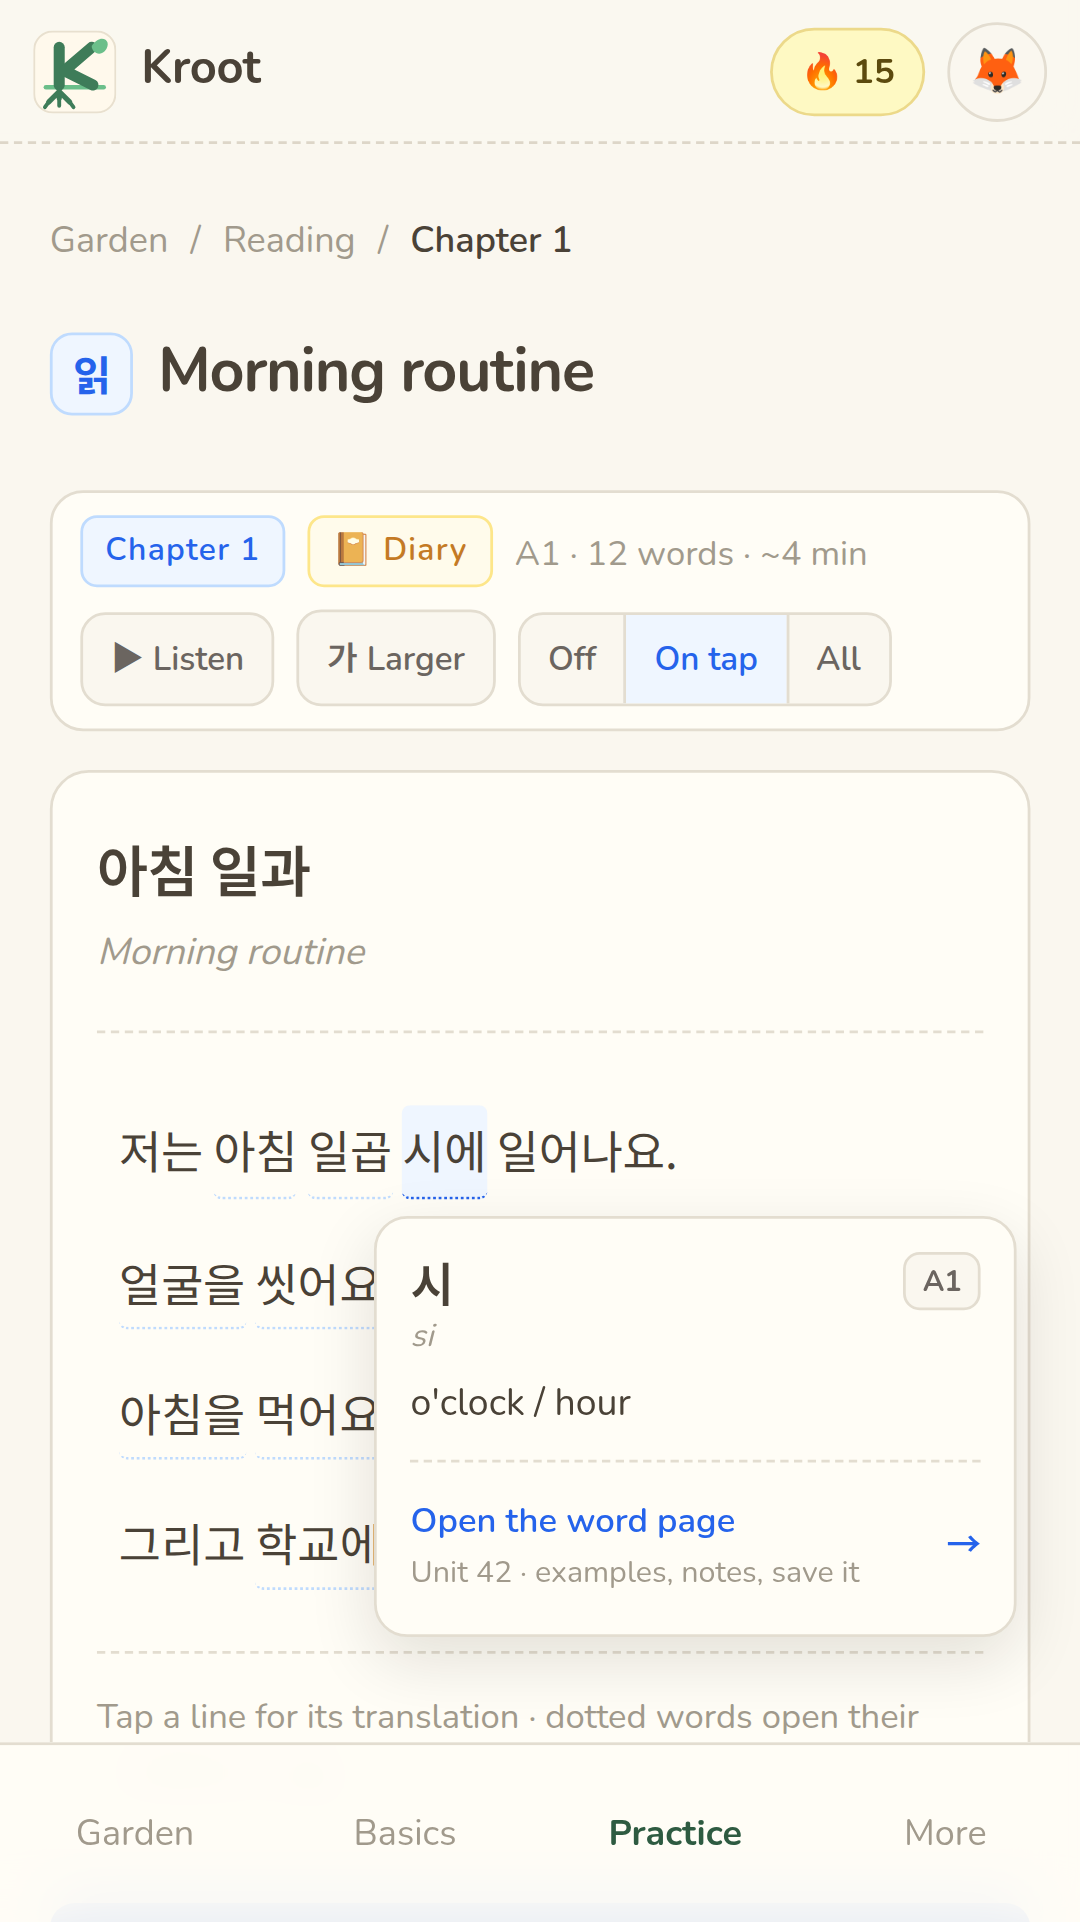
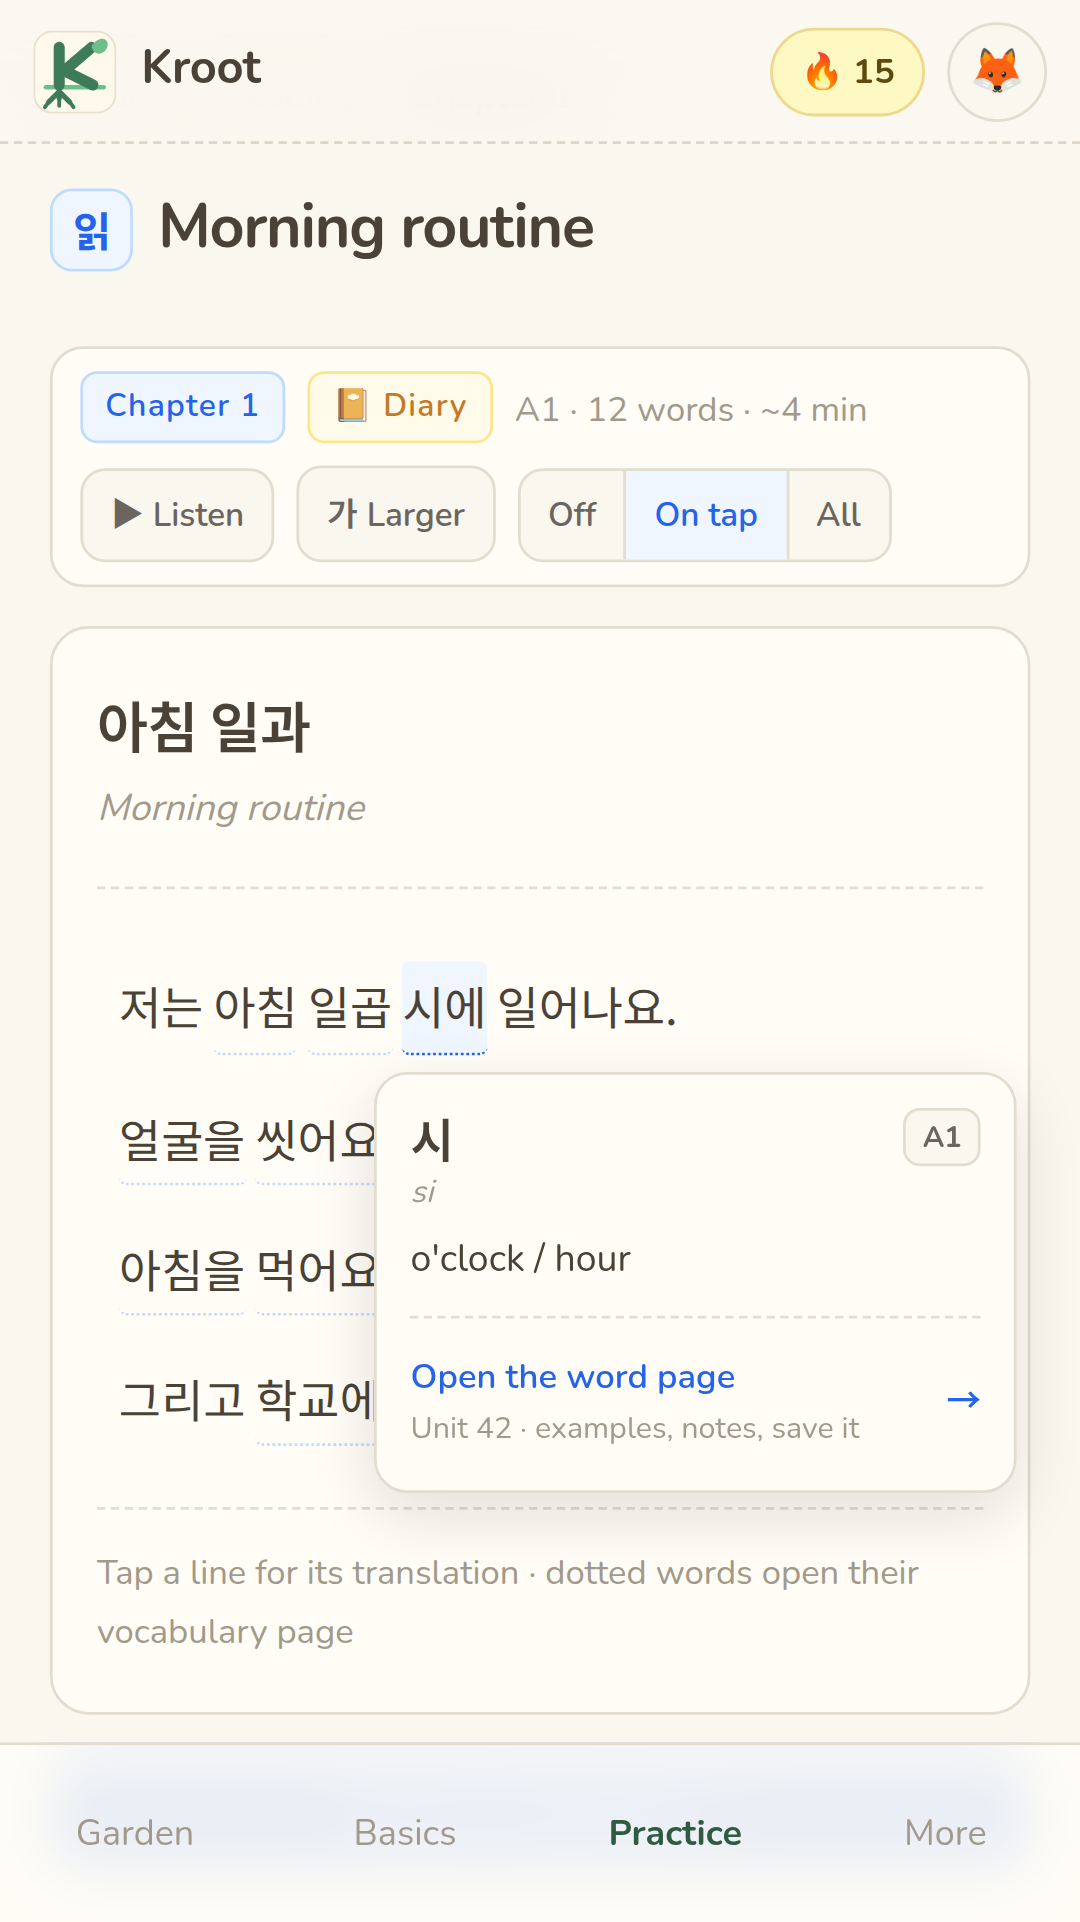
Play Store screenshots v5: reading scrolled to title, vocab without sticky continue bar
Claude-Session: https://claude.ai/code/session_0172ajqtxEBMSZdMLjTxGUXR

diff --git a/_refs/store/play-listing.md b/_refs/store/play-listing.md
@@ -68,13 +68,13 @@ Questions or ideas? Tap the 💬 button in the app — a real person reads every
 | Phone screenshots | 2–8, 16:9 or 9:16, 320–3840 px | 🟡 `screenshots/` (raw captures, see below) |
 | 7" tablet screenshots | optional | skip for v1 |
 
-Captured 2026-09-06 v4 (1080×1922, 390×694 CSS px ×2.77, review account on dev server; set per user):
+Captured 2026-09-06 v5 (1080×1922, 390×694 CSS px ×2.77, review account on dev server; set per user):
 1. `01-dashboard` — tree card; name/avatar swapped in the DOM to "Ronnie" + the owner's photo (DB untouched)
 2. `02-listening` — Cafe A1 clip, two characters + waveform
 3. `03-vocabulary` — Japanese UI (/ja) with the More-sheet language menu open (shows all 5 languages)
-4. `04-reading` — Chapter 1 passage with a tapped word popup (시 · o'clock)
+4. `04-reading` — Chapter 1 scrolled to the "Morning routine" title, tapped word popup (시 · o'clock)
 5. `05-writing` — Chapter 1 Q1 with one tile placed (저는) and a 👆 hand on the next (빵을) — hand is a DOM overlay
-6. `06-vocabulary` — English Chapter 1 Day 1 word list (pronunciation shot dropped by user)
+6. `06-vocabulary` — English Chapter 1 Day 1 word list; sticky "Continue Chapter 1 →" bar hidden for the shot (pronunciation shot dropped by user)
 7. `07-shop` — try-on tree + category tabs + first item cards ("This week only" banner and slot chips moved off-screen for the shot — banner must stay in the DOM, its SVG holds the trunk gradient defs)
 8. `08-ranking` — Garden Fair podium (shows other users' display names — user OK'd)
 
